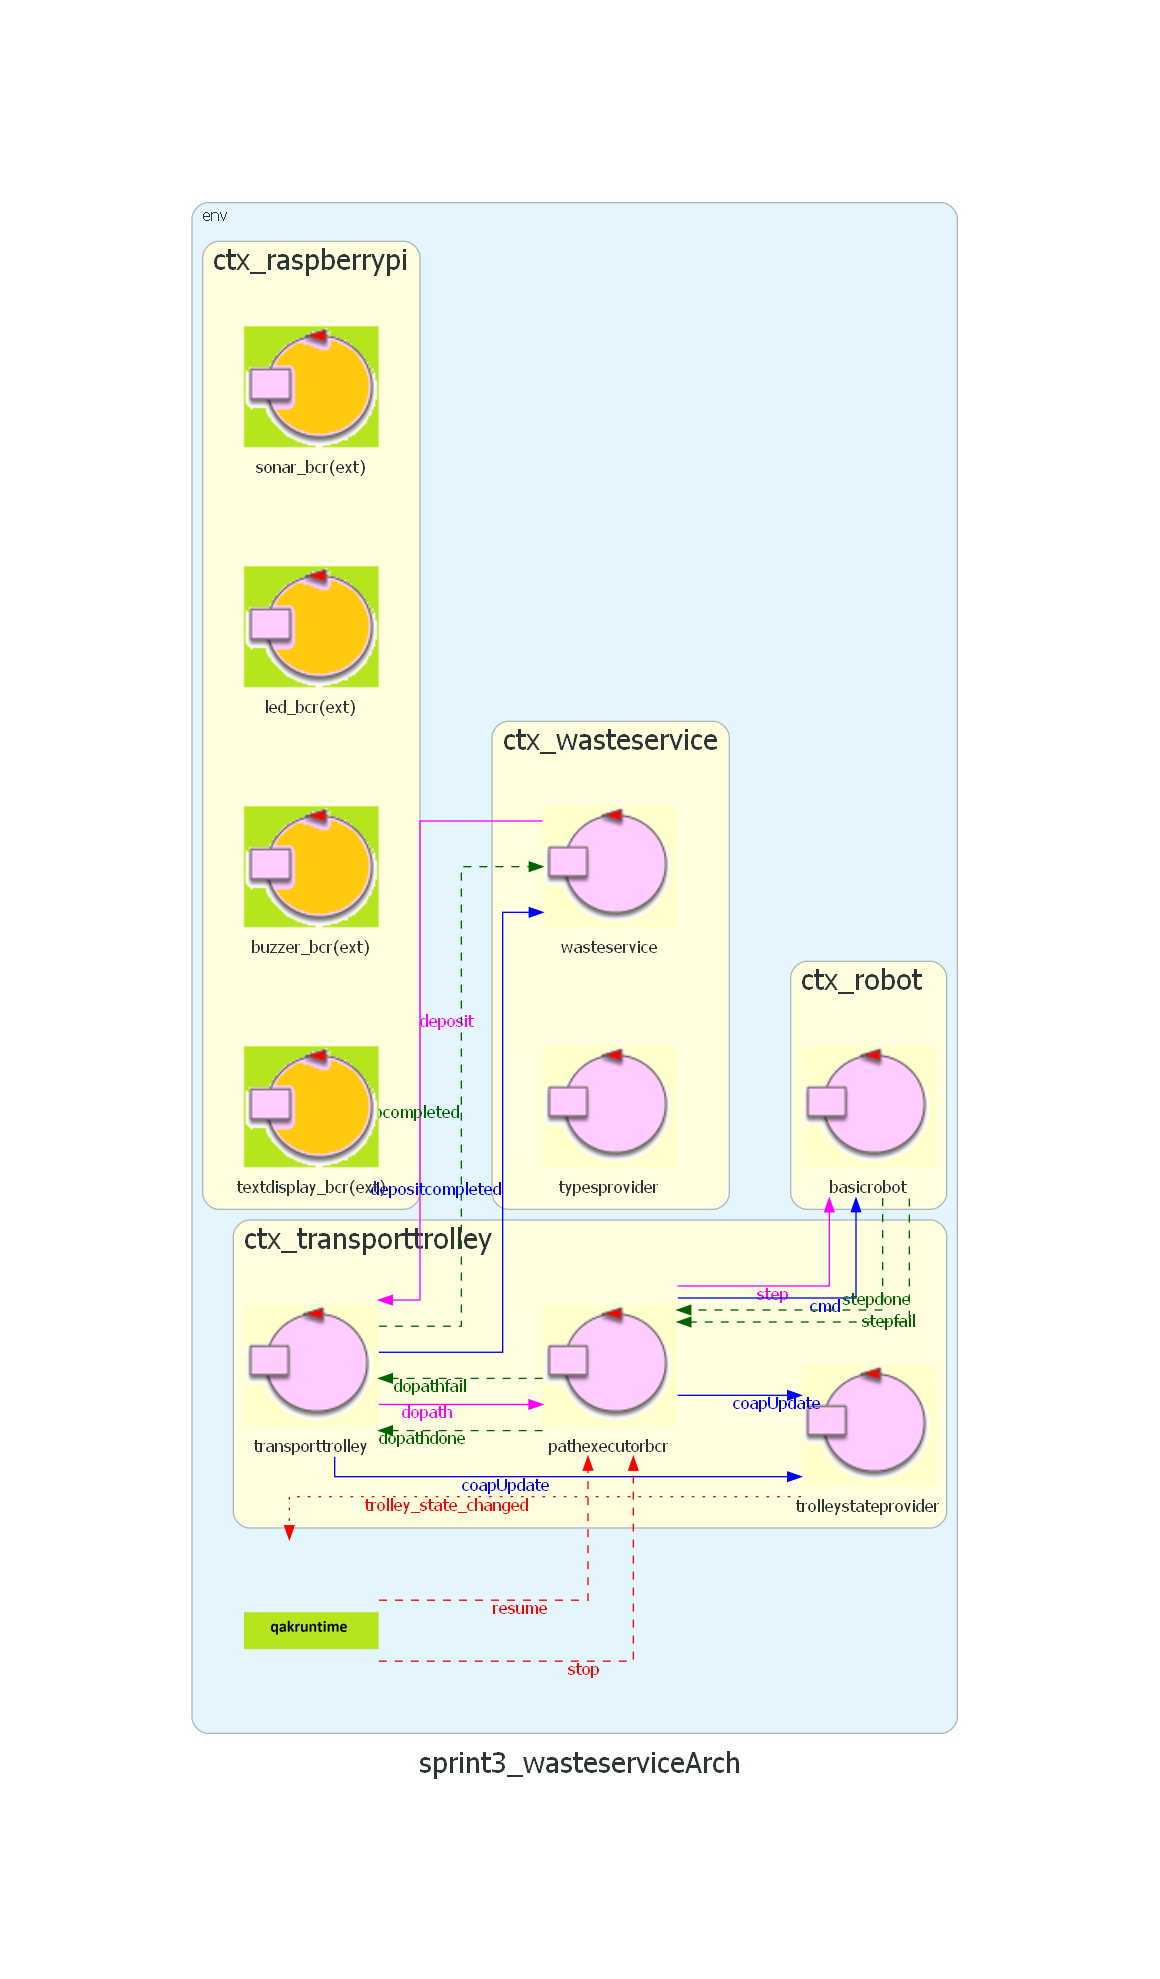
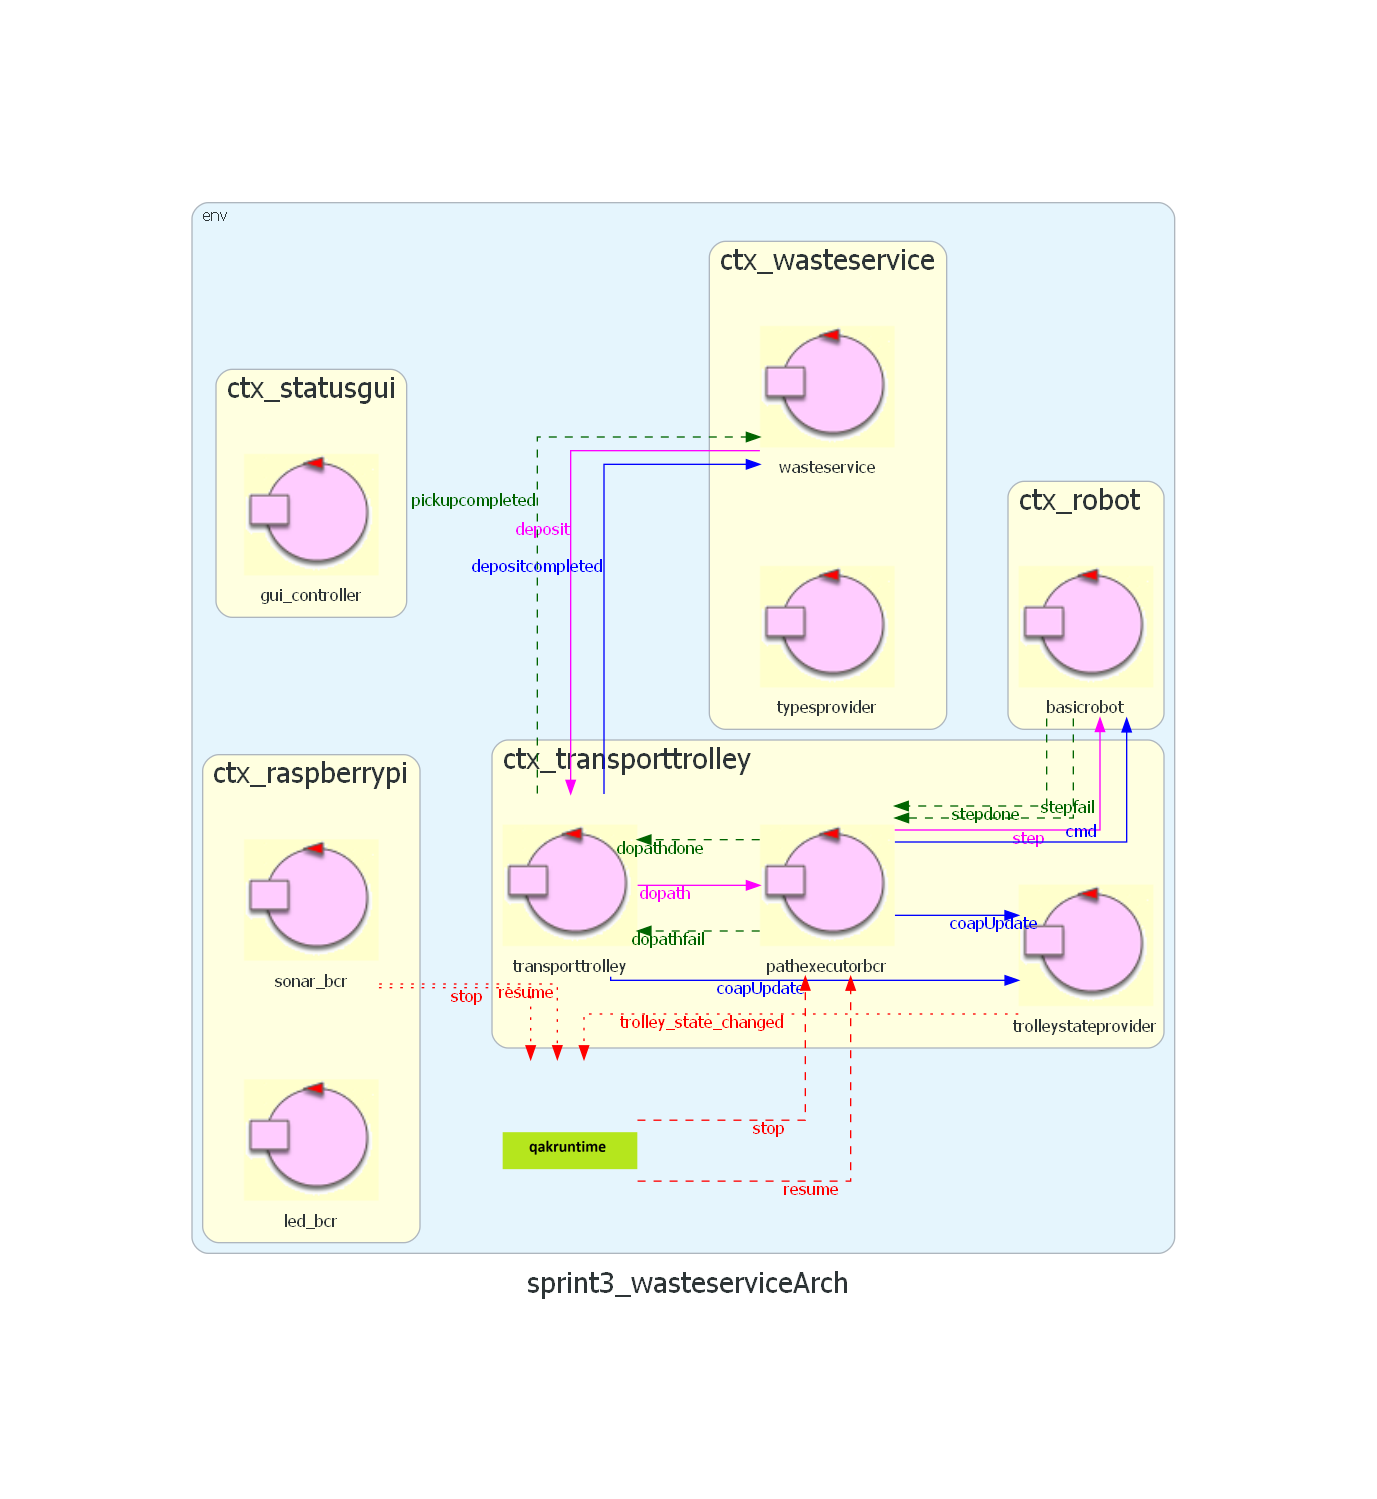
update docs + prob analysis project

diff --git a/Sprint3/Sprint3_ProblemAnalysis/src/it/unibo/gui_controller/Gui_controller.kt b/Sprint3/Sprint3_ProblemAnalysis/src/it/unibo/gui_controller/Gui_controller.kt
@@ -1,5 +1,5 @@
 /* Generated by AN DISI Unibo */ 
-package it.unibo.statusgui_controller
+package it.unibo.gui_controller
 
 import it.unibo.kactor.*
 import alice.tuprolog.*
@@ -8,7 +8,7 @@ import kotlinx.coroutines.delay
 import kotlinx.coroutines.launch
 import kotlinx.coroutines.runBlocking
 	
-class Statusgui_controller ( name: String, scope: CoroutineScope  ) : ActorBasicFsm( name, scope ){
+class Gui_controller ( name: String, scope: CoroutineScope  ) : ActorBasicFsm( name, scope ){
 
 	override fun getInitialState() : String{
 		return "state_init"
@@ -17,15 +17,6 @@ class Statusgui_controller ( name: String, scope: CoroutineScope  ) : ActorBasic
 		val interruptedStateTransitions = mutableListOf<Transition>()
 		return { //this:ActionBasciFsm
 				state("state_init") { //this:State
-					action { //it:State
-						//genTimer( actor, state )
-					}
-					//After Lenzi Aug2002
-					sysaction { //it:State
-					}	 	 
-					 transition( edgeName="goto",targetState="state_idle", cond=doswitch() )
-				}	 
-				state("state_idle") { //this:State
 					action { //it:State
 						//genTimer( actor, state )
 					}

diff --git a/Sprint3/resources/userDocs/problem_analysis.html b/Sprint3/resources/userDocs/problem_analysis.html
@@ -50,7 +50,9 @@
 
         <div id="main">
             <h1 align="center">Problem Analysis</h1>
-            
+            To focus the attention on the problem of the current sprint, we created a QAK
+            that includes only the core-business and the gui (without the Raspberry Pi part).
+
             <h2 id="Logical-Architecture-from-Sprint1">Logical Architecture from Sprint2</h2>
             <img width="100%" src="../../../Sprint2/Sprint2_Project/sprint2_waste_service/project_logical_architecture_core-business.png"/>
             QAK model: <a href="../../../Sprint2/Sprint2_Project/sprint2_waste_service/src/waste_service.qak">waste_service.qak</a>

diff --git a/Sprint3/Sprint3_ProblemAnalysis/src/it/unibo/ctx_statusgui/MainCtx_statusgui.kt b/Sprint3/Sprint3_ProblemAnalysis/src/it/unibo/ctx_statusgui/MainCtx_statusgui.kt
@@ -1,12 +1,12 @@
 /* Generated by AN DISI Unibo */ 
-package it.unibo.ctx_status
+package it.unibo.ctx_statusgui
 import it.unibo.kactor.QakContext
 import it.unibo.kactor.sysUtil
 import kotlinx.coroutines.runBlocking
 
 fun main() = runBlocking {
 	QakContext.createContexts(
-	        "localhost", this, "sprint3_wasteservice.pl", "sysRules.pl","ctx_status"
+	        "localhost", this, "sprint3_wasteservice.pl", "sysRules.pl","ctx_statusgui"
 	)
 }
 

diff --git a/Sprint3/Sprint3_ProblemAnalysis/src/it/unibo/sonar_bcr/Sonar_bcr.kt b/Sprint3/Sprint3_ProblemAnalysis/src/it/unibo/sonar_bcr/Sonar_bcr.kt
@@ -18,6 +18,8 @@ class Sonar_bcr ( name: String, scope: CoroutineScope  ) : ActorBasicFsm( name, 
 		return { //this:ActionBasciFsm
 				state("state_init") { //this:State
 					action { //it:State
+						emit("stop", "stop" ) 
+						emit("resume", "resume" ) 
 						//genTimer( actor, state )
 					}
 					//After Lenzi Aug2002

diff --git a/Sprint3/Sprint3_ProblemAnalysis/Arch_sprint3_wasteservice.py b/Sprint3/Sprint3_ProblemAnalysis/Arch_sprint3_wasteservice.py
@@ -31,12 +31,8 @@ with Diagram('sprint3_wasteserviceArch', show=False, outformat='png', graph_attr
      with Cluster('ctx_raspberrypi', graph_attr=nodeattr):
           sonar_bcr=Custom('sonar_bcr','./qakicons/symActorSmall.png')
           led_bcr=Custom('led_bcr','./qakicons/symActorSmall.png')
-          sonar_bcr=Custom('sonar_bcr(ext)','./qakicons/externalQActor.png')
-          led_bcr=Custom('led_bcr(ext)','./qakicons/externalQActor.png')
-          buzzer_bcr=Custom('buzzer_bcr(ext)','./qakicons/externalQActor.png')
-          textdisplay_bcr=Custom('textdisplay_bcr(ext)','./qakicons/externalQActor.png')
-     with Cluster('ctx_status', graph_attr=nodeattr):
-          statusgui_controller=Custom('statusgui_controller','./qakicons/symActorSmall.png')
+     with Cluster('ctx_statusgui', graph_attr=nodeattr):
+          gui_controller=Custom('gui_controller','./qakicons/symActorSmall.png')
      wasteservice >> Edge(color='magenta', style='solid', xlabel='deposit', fontcolor='magenta') >> transporttrolley
      transporttrolley >> Edge(color='magenta', style='solid', xlabel='dopath', fontcolor='magenta') >> pathexecutorbcr
      transporttrolley >> Edge(color='darkgreen', style='dashed', xlabel='pickupcompleted', fontcolor='darkgreen') >> wasteservice
@@ -52,4 +48,6 @@ with Diagram('sprint3_wasteserviceArch', show=False, outformat='png', graph_attr
      sys >> Edge(color='red', style='dashed', xlabel='resume', fontcolor='red') >> pathexecutorbcr
      basicrobot >> Edge(color='darkgreen', style='dashed', xlabel='stepdone', fontcolor='darkgreen') >> pathexecutorbcr
      basicrobot >> Edge(color='darkgreen', style='dashed', xlabel='stepfail', fontcolor='darkgreen') >> pathexecutorbcr
+     sonar_bcr >> Edge( xlabel='stop', **eventedgeattr, fontcolor='red') >> sys
+     sonar_bcr >> Edge( xlabel='resume', **eventedgeattr, fontcolor='red') >> sys
 diag
